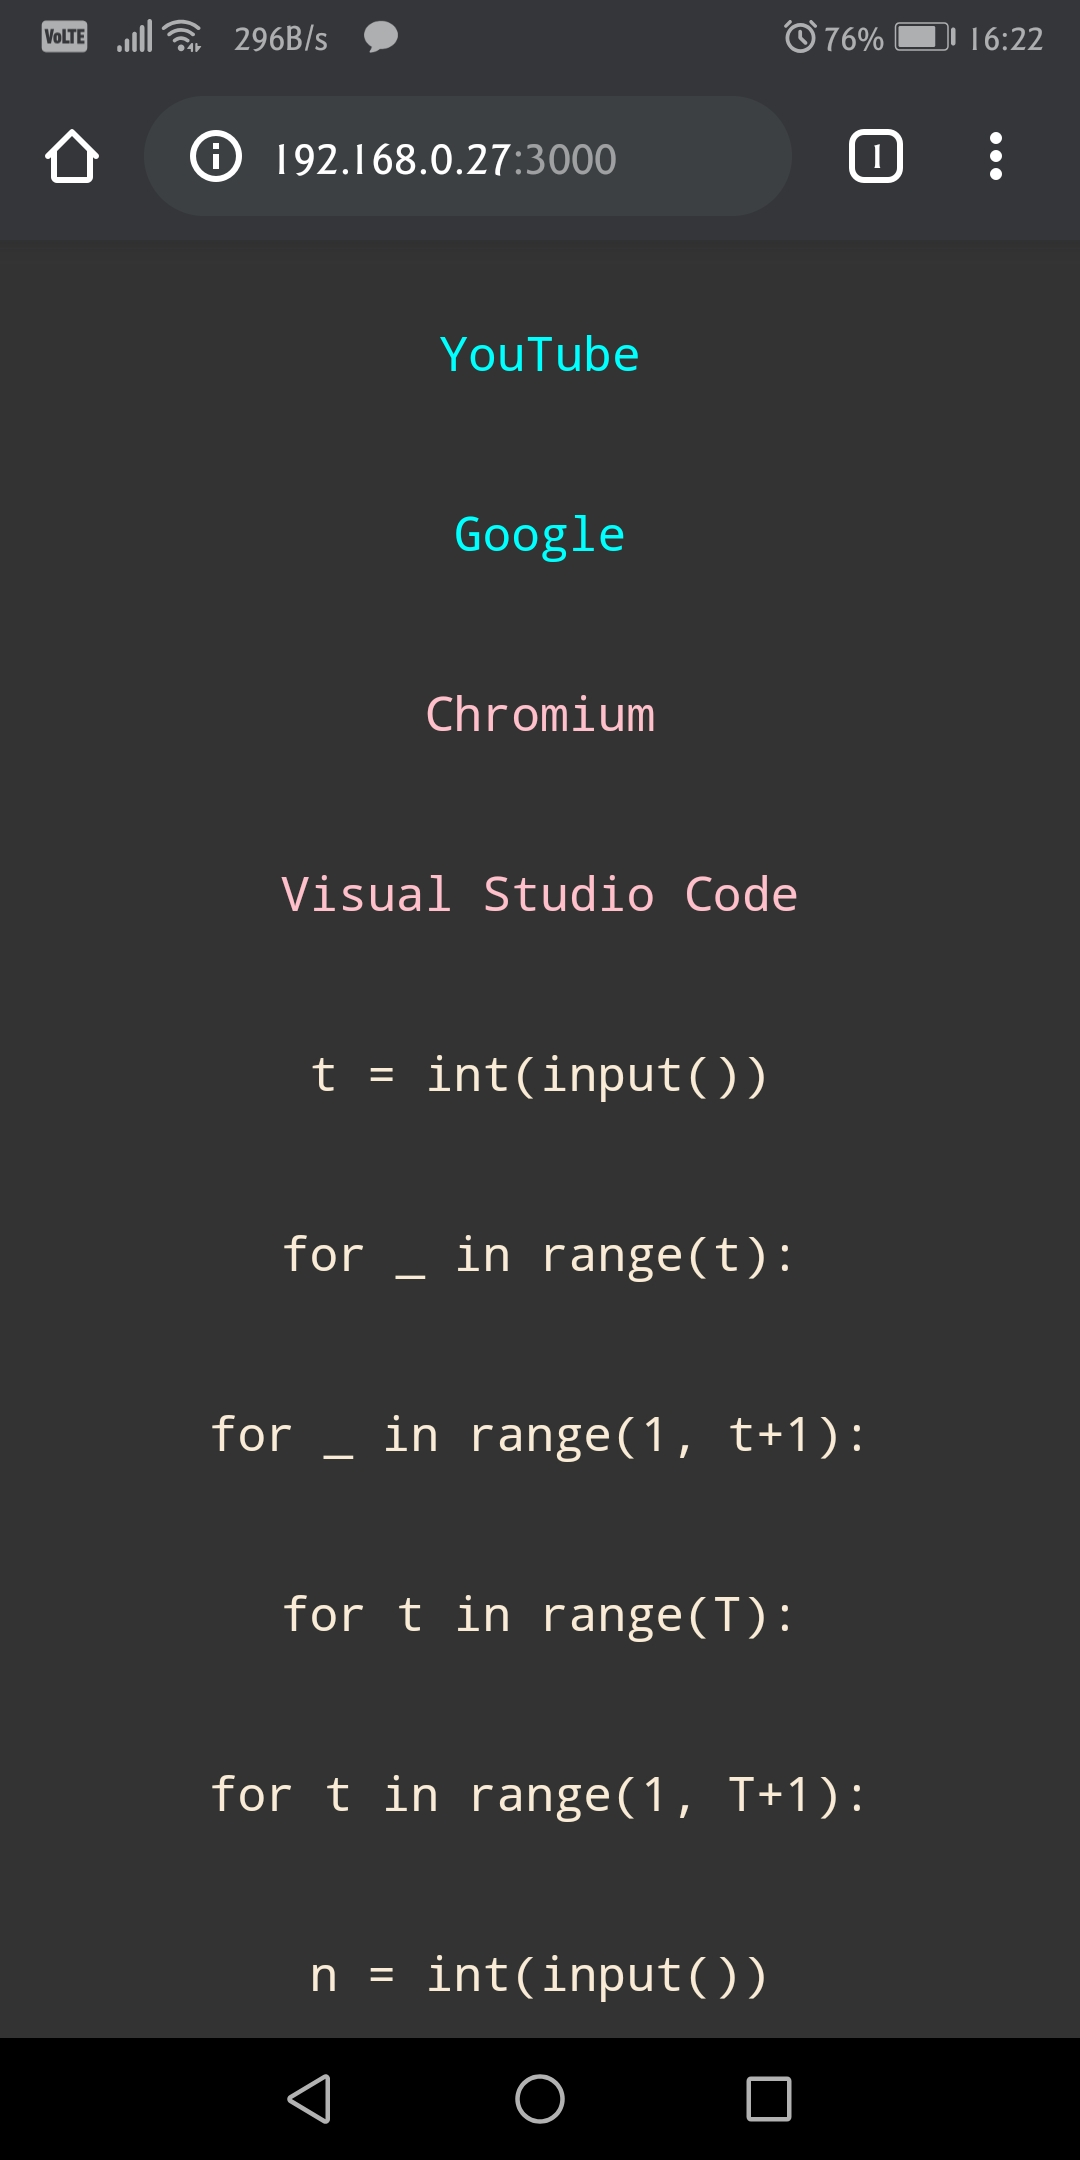
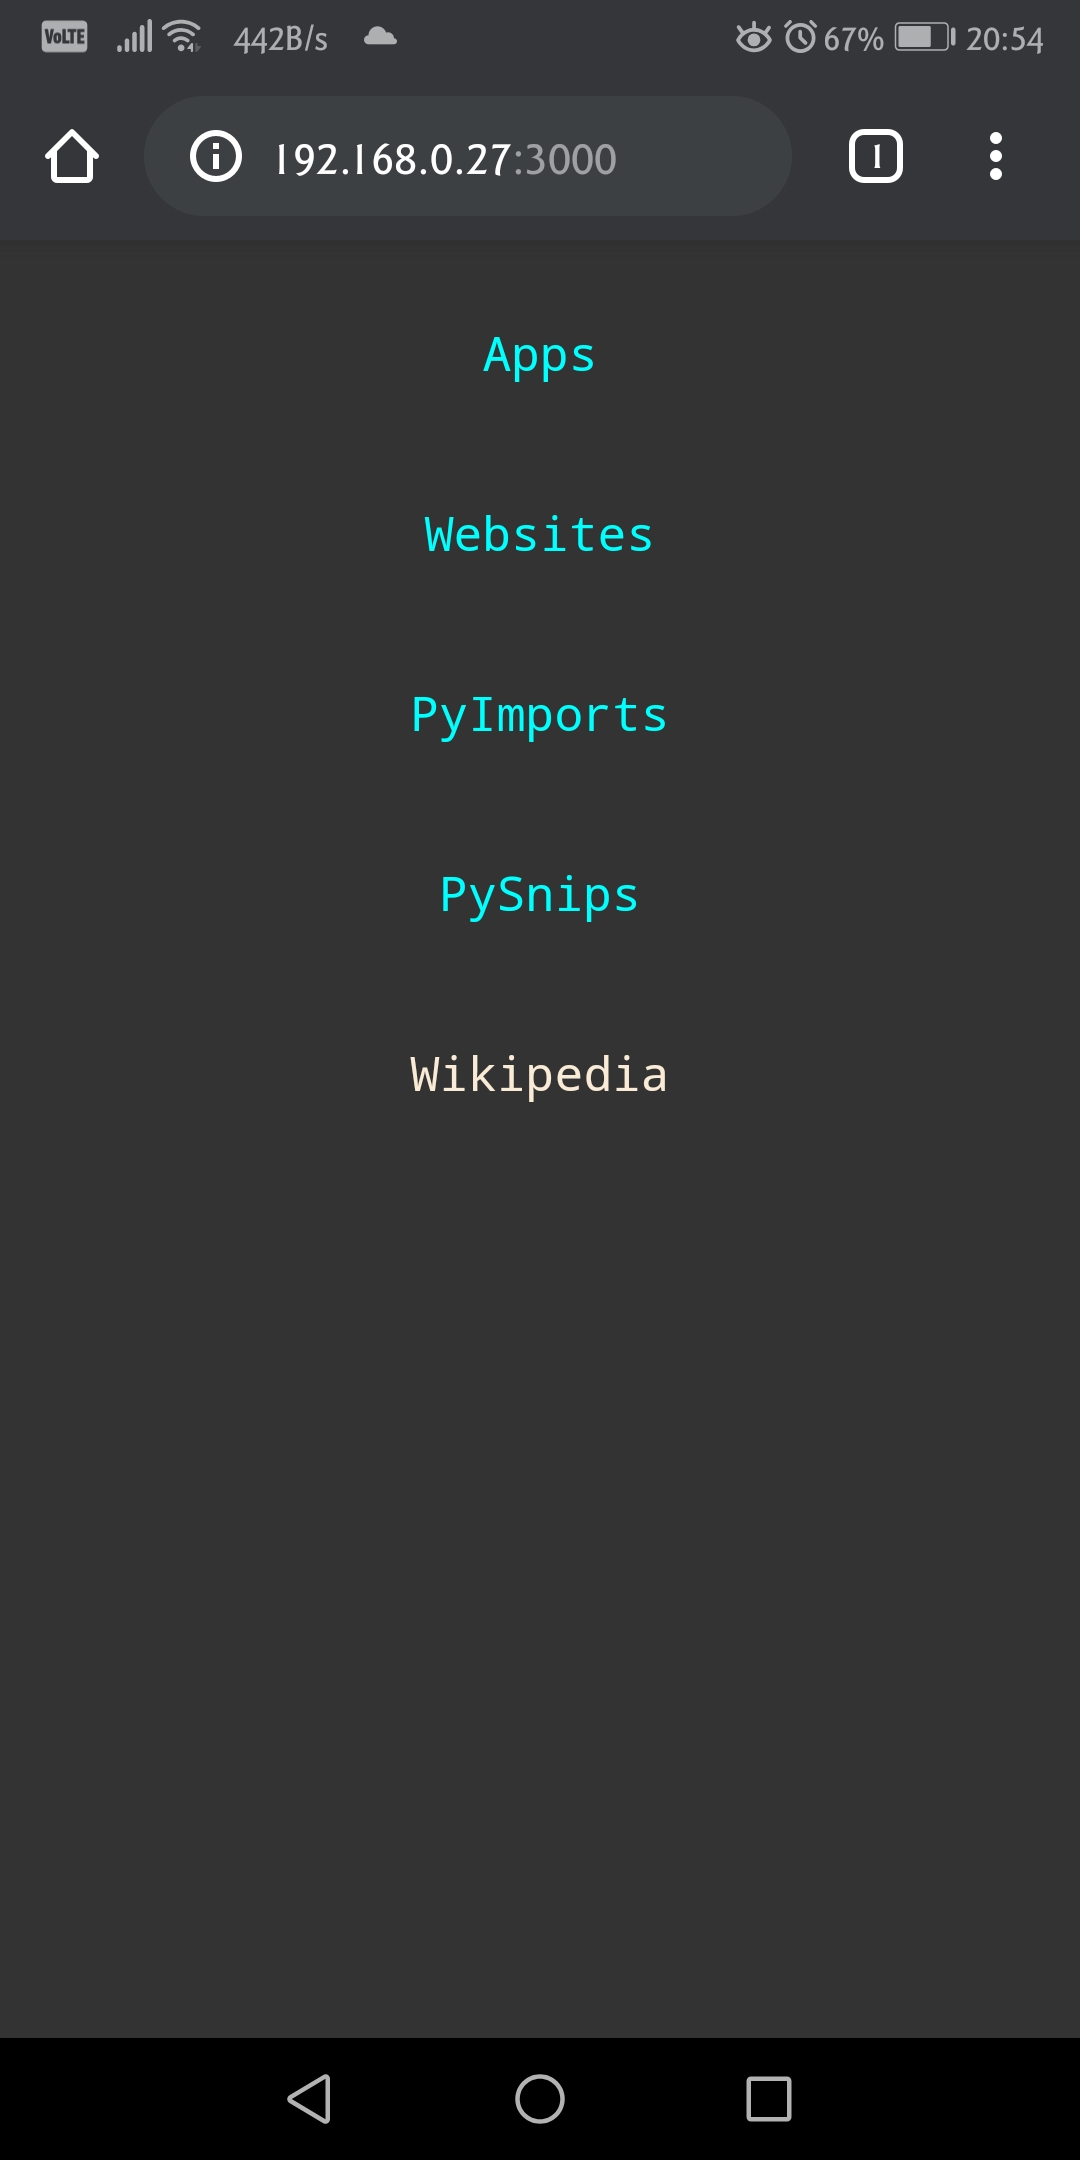
Update 1.0
Added folder structure. Changed snippets.js to actionables.js

diff --git a/public/client.js b/public/client.js
@@ -1,24 +1,91 @@
-let buttonsView = document.getElementById('buttonsView'); //"<div>" for code snippets.
+let buttonsView = document.getElementById('buttonsView'); //"<div>" for buttons
+let path = [mainActions]; // to keep track of folder depth.
 
-// Creating a button for each snippet of code.
-Object.keys(actions).forEach( (key) => {
-    if(key == 'webpages') {
-        for(let i=0; i < actions[key].length; i++)
-            createButton(key, actions[key][i]['url'], actions[key][i]['title'], 'cyan');
-    } else if(key == 'apps') {
-        for(let i=0; i < actions[key].length; i++)
-            createButton(key, actions[key][i]['cmd'], actions[key][i]['title'], 'pink');
-    } else {
-        for(let i=0; i < actions[key].length; i++)
-            createButton(key, actions[key][i]);
-    }
-
+// When back button on browser is pressed, update the buttons on screen.
+window.addEventListener("popstate", (e) => {
+    path.pop();
+    createButtons();
 });
 
-function createButton(action, data, title, color) {
+// Creating initial set of buttons.
+createButtons();
+
+function createButtons() {
+    // Remove existing buttons.
+    buttonsView.innerHTML = "";
+ 
+    // If parent folder exists, create a back button.
+    if(path[path.length-2]) {
+        let folderUp =  document.createElement('button');
+        folderUp.innerText = "Back";
+        folderUp.style.color='red';
+        folderUp.addEventListener('click', () => {
+            path.pop();
+            createButtons();
+        });
+        buttonsView.appendChild(folderUp);
+    }
+
+
+    // Get the list of actionables in current folder.
+    let actionables = path[path.length-1];
+
+    for(let i=0; i < actionables.length; i++) {
+
+        // Get the first actionable
+        let item = actionables[i];
+
+        // Based on type of actionable, create buttons.
+        if(item[0] == 'folder') {
+            for(let i=0; i < item[2].length; i++) {
+                let folder = item[2][i];
+                let folderDown =  document.createElement('button');
+                if(!folder[0][3])
+                    folderDown.innerText = folder[0][1];
+                folderDown.style.color='cyan';
+                folderDown.addEventListener('click', () => {
+                    // https://youtu.be/d10k3iiZ_xk?t=154
+                    history.pushState(0, 0);
+                    path.push(folder);
+                    createButtons();
+                });
+                buttonsView.appendChild(folderDown);
+            }
+        } else if(item[0] == 'text') {
+            for(let i=0; i < item[2].length; i++) {
+                createButton(item[2][i], 'text', item[2][i]);
+            }
+        } else if(item[0] == 'apps') {
+            for(let i=0; i < item[2].length; i++) {
+                let app = item[2][i];
+                createButton(app[0], 'apps', app[1]);
+            }
+        } else if(item[0] == 'url') {
+            for(let i=0; i < item[2].length; i++) {
+                let url = item[2][i];
+                createButton(url[0], 'url', url[1]);
+            }
+        } else if(item[0] == 'import') {
+            for(let i=0; i < item[2].length; i++) {
+                createButton(item[2][i], 'import', item[2][i]);
+            }
+        }
+    }
+}
+
+// Helper function to create buttons.
+function createButton(title, type, data, color, url) {
     let newBtn = document.createElement('button');
-    newBtn.innerText = title ? title : data;
-    newBtn.style.color=color;
+
+    if(color)
+        newBtn.style.color = color;
+    if(url) {
+        newBtn.style.backgroundImage = url(url);
+    } else {
+        newBtn.innerText = title;
+    }
+
+    // Send type and data to the server on click.
     newBtn.addEventListener('click', () => {
         fetch('http://192.168.0.27:3000/secret', {
             method: 'post',
@@ -26,9 +93,9 @@ function createButton(action, data, title, color) {
                 'content-Type': 'application/json'
             },
             body: JSON.stringify({
-                "action": action,
-                "data": data.toString()
-            }),
+                "type": type,
+                "data": data
+            })
         });
     })
 

diff --git a/public/actionables.js b/public/actionables.js
@@ -1,0 +1,48 @@
+/************************************************************************************
+ * Structure of Variables:															*
+ *		It a list of:																*
+ * 			actionables:															*
+ * 				Each actionable has 1st index as type, 2nd index as Title 			*
+ * 				and 3rd index as list of data.										*
+ * Types used here: 																*
+ * 		import: inserts the text at the top of active text field					*
+ * 		url: opens url in chromium													*
+ * 		apps: opens the app															*
+ * 		folder: used only on client-side											*
+ ************************************************************************************/
+
+let pyimports = [["import", "PyImports", [
+	"import numpy as np\n",
+	"import matplotlib.plot as plt\n",
+	"import time\n",
+	"import random\n"
+]]];
+
+let webpages = [["url", "Websites", [
+	["YouTube", "youtube.com"], 
+	["Google", "google.com"],
+	["Microsoft", "microsoft.com"]
+]]];
+	
+let apps = [["apps", "Apps", [
+	["Chromium", "chromium"],
+	["Visual Studio Code", "code"]
+]]];
+
+let pysnips = [["text", "PySnips", [
+	"t = int(input())\n",
+	"for _ in range(t):\n",
+	"for _ in range(1, t+1):\n",
+	"for t in range(T):\n",
+	"for t in range(1, T+1):\n",
+	"n = int(input())\n",
+	"(int(s) for s in input().split())",
+	"for i in range(n):\n",
+	"for i in range(n):\nprint(n)\n",
+	"for j in range(m):\n"
+]]];
+
+let mainActions = [
+	["folder", "Folder", [apps, webpages, pyimports, pysnips]],
+	["url", "Websites", [["Wikipedia", "en.wikipedia.org"]]]
+];

diff --git a/server.js b/server.js
@@ -23,12 +23,13 @@ app.get('/', (req, res) => {
 app.post('/secret', (req, res) => {
     // handle different kinds of actions
 
-    if(req.body.action == "snips") {
-        spawn('xdotool', ['type',  '--delay', '0', req.body.data]);
-        // spawn('python3', 'insertText.py', req.body.data]);
-    } else if(req.body.action == "webpages") {
+    if(req.body.type == 'text') {
+        spawn('xdotool', ['type',  '--delay', '0', req.body.data.toString()]);
+    } else if(req.body.type == 'url') {
         spawn('chromium', [req.body.data]);
-    } else if(req.body.action == "apps") {
+    } else if(req.body.type == 'import') {
+        spawn('xdotool', ['key', 'ctrl+Home', 'type', '--delay', '0', req.body.data]);
+    } else if(req.body.type == 'apps') {
         spawn(req.body.data);
     }
 

diff --git a/public/index.html b/public/index.html
@@ -4,7 +4,7 @@
     <body>
         <meta name="viewport" content="width=device-width, initial-scale=1">
         <div class="grid-view" id="buttonsView"></div>
-        <script src="snippets.js"></script>
+        <script src="actionables.js"></script>
         <script src="client.js"></script>
         <link rel="stylesheet" href="styles.css">
     </body>
